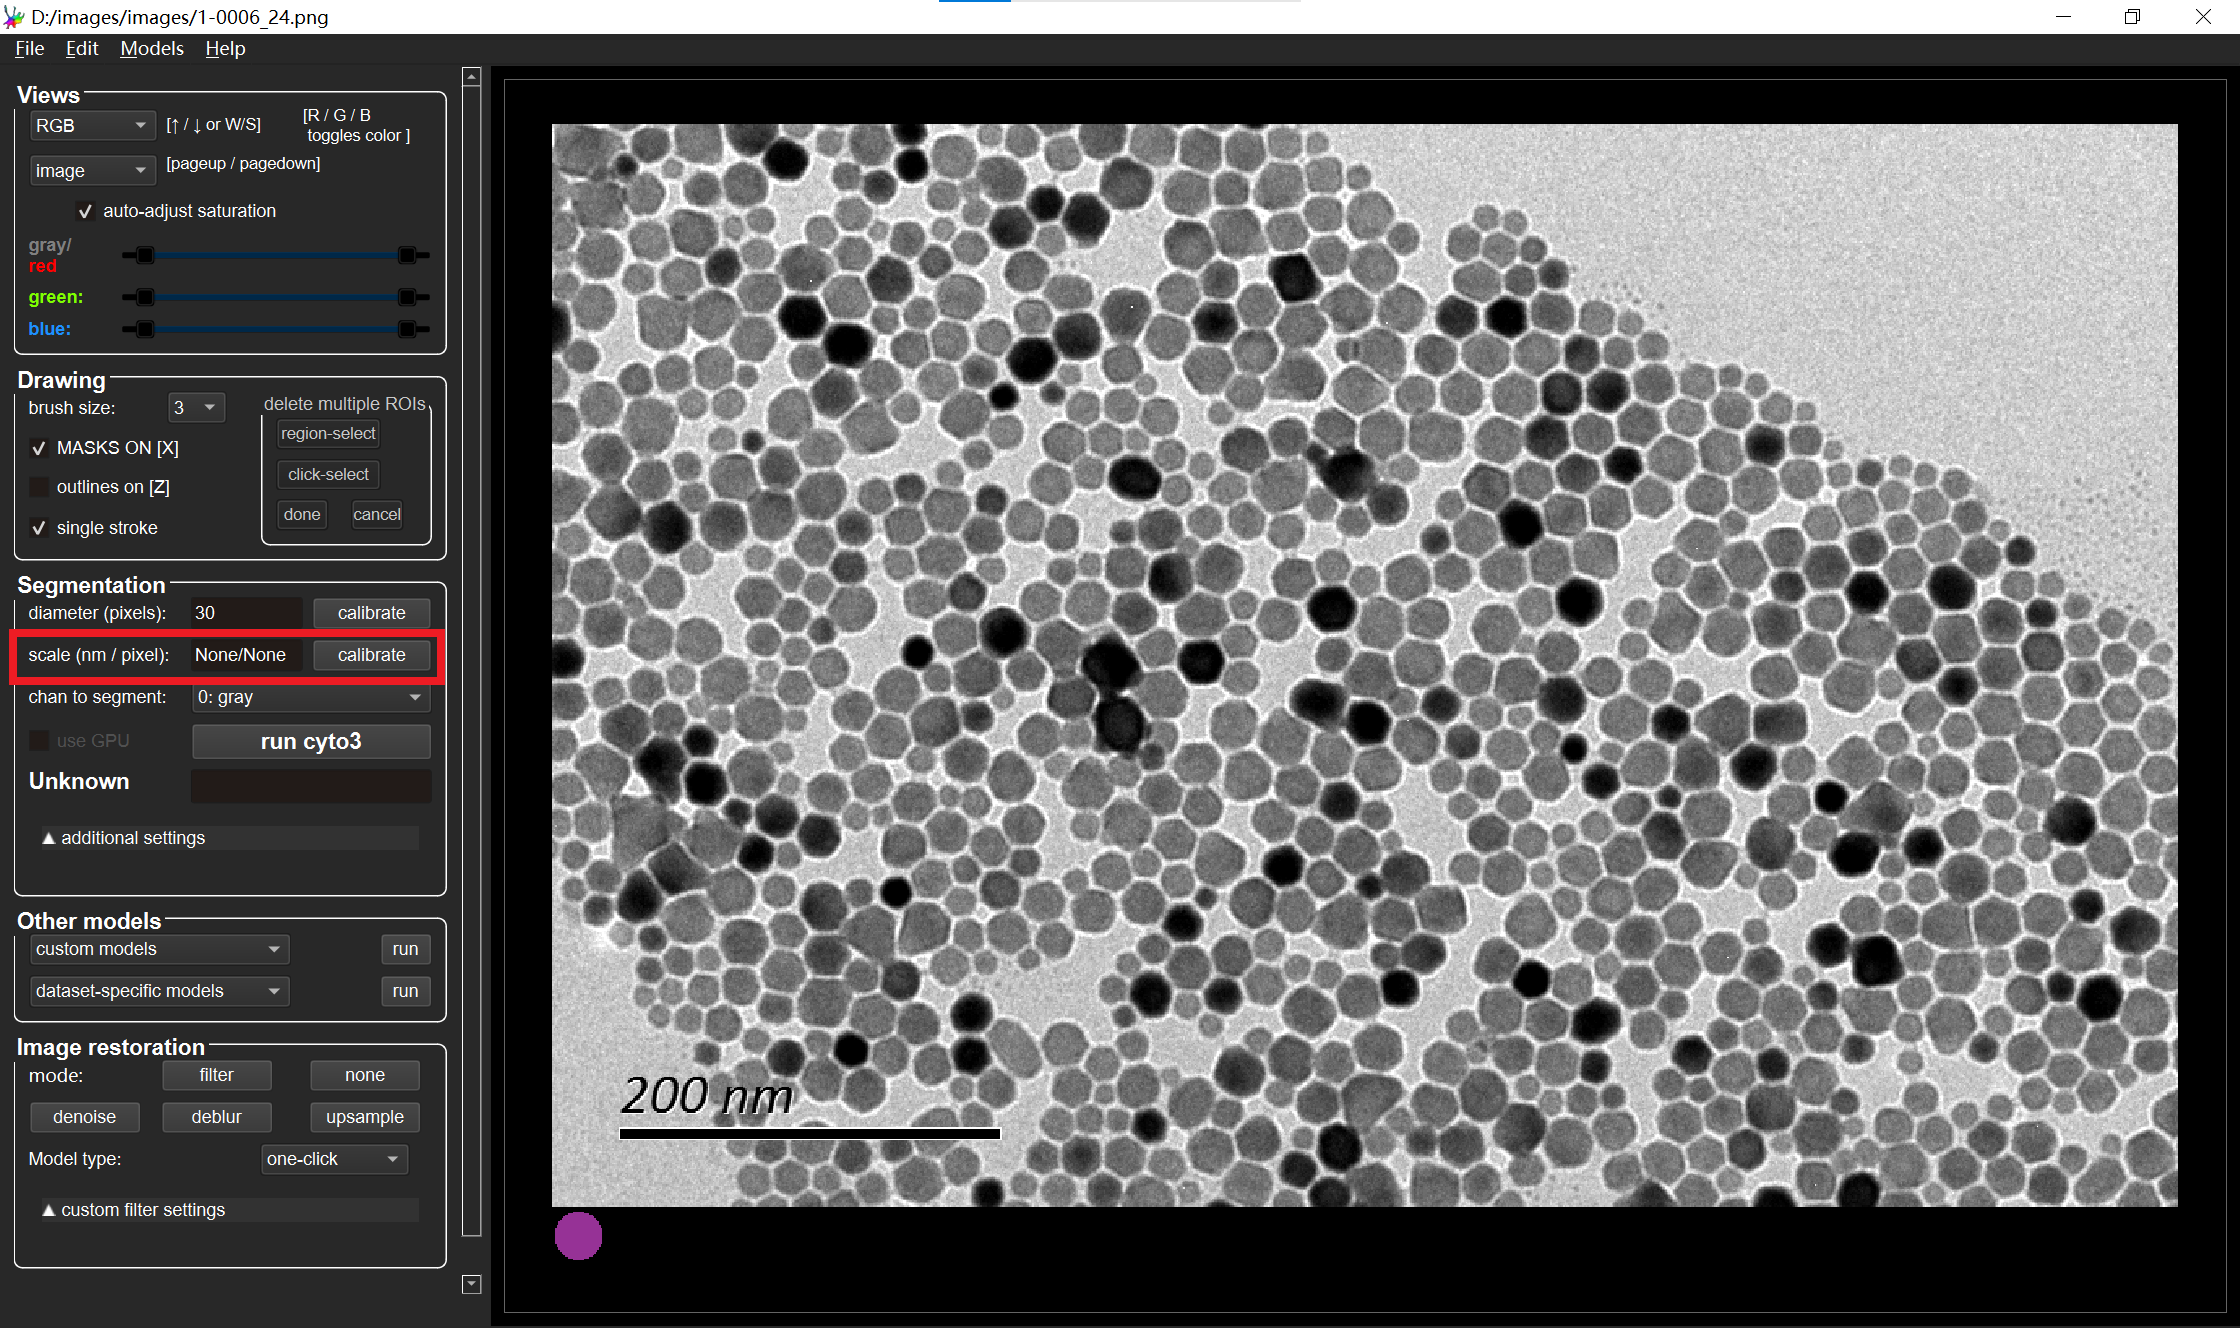
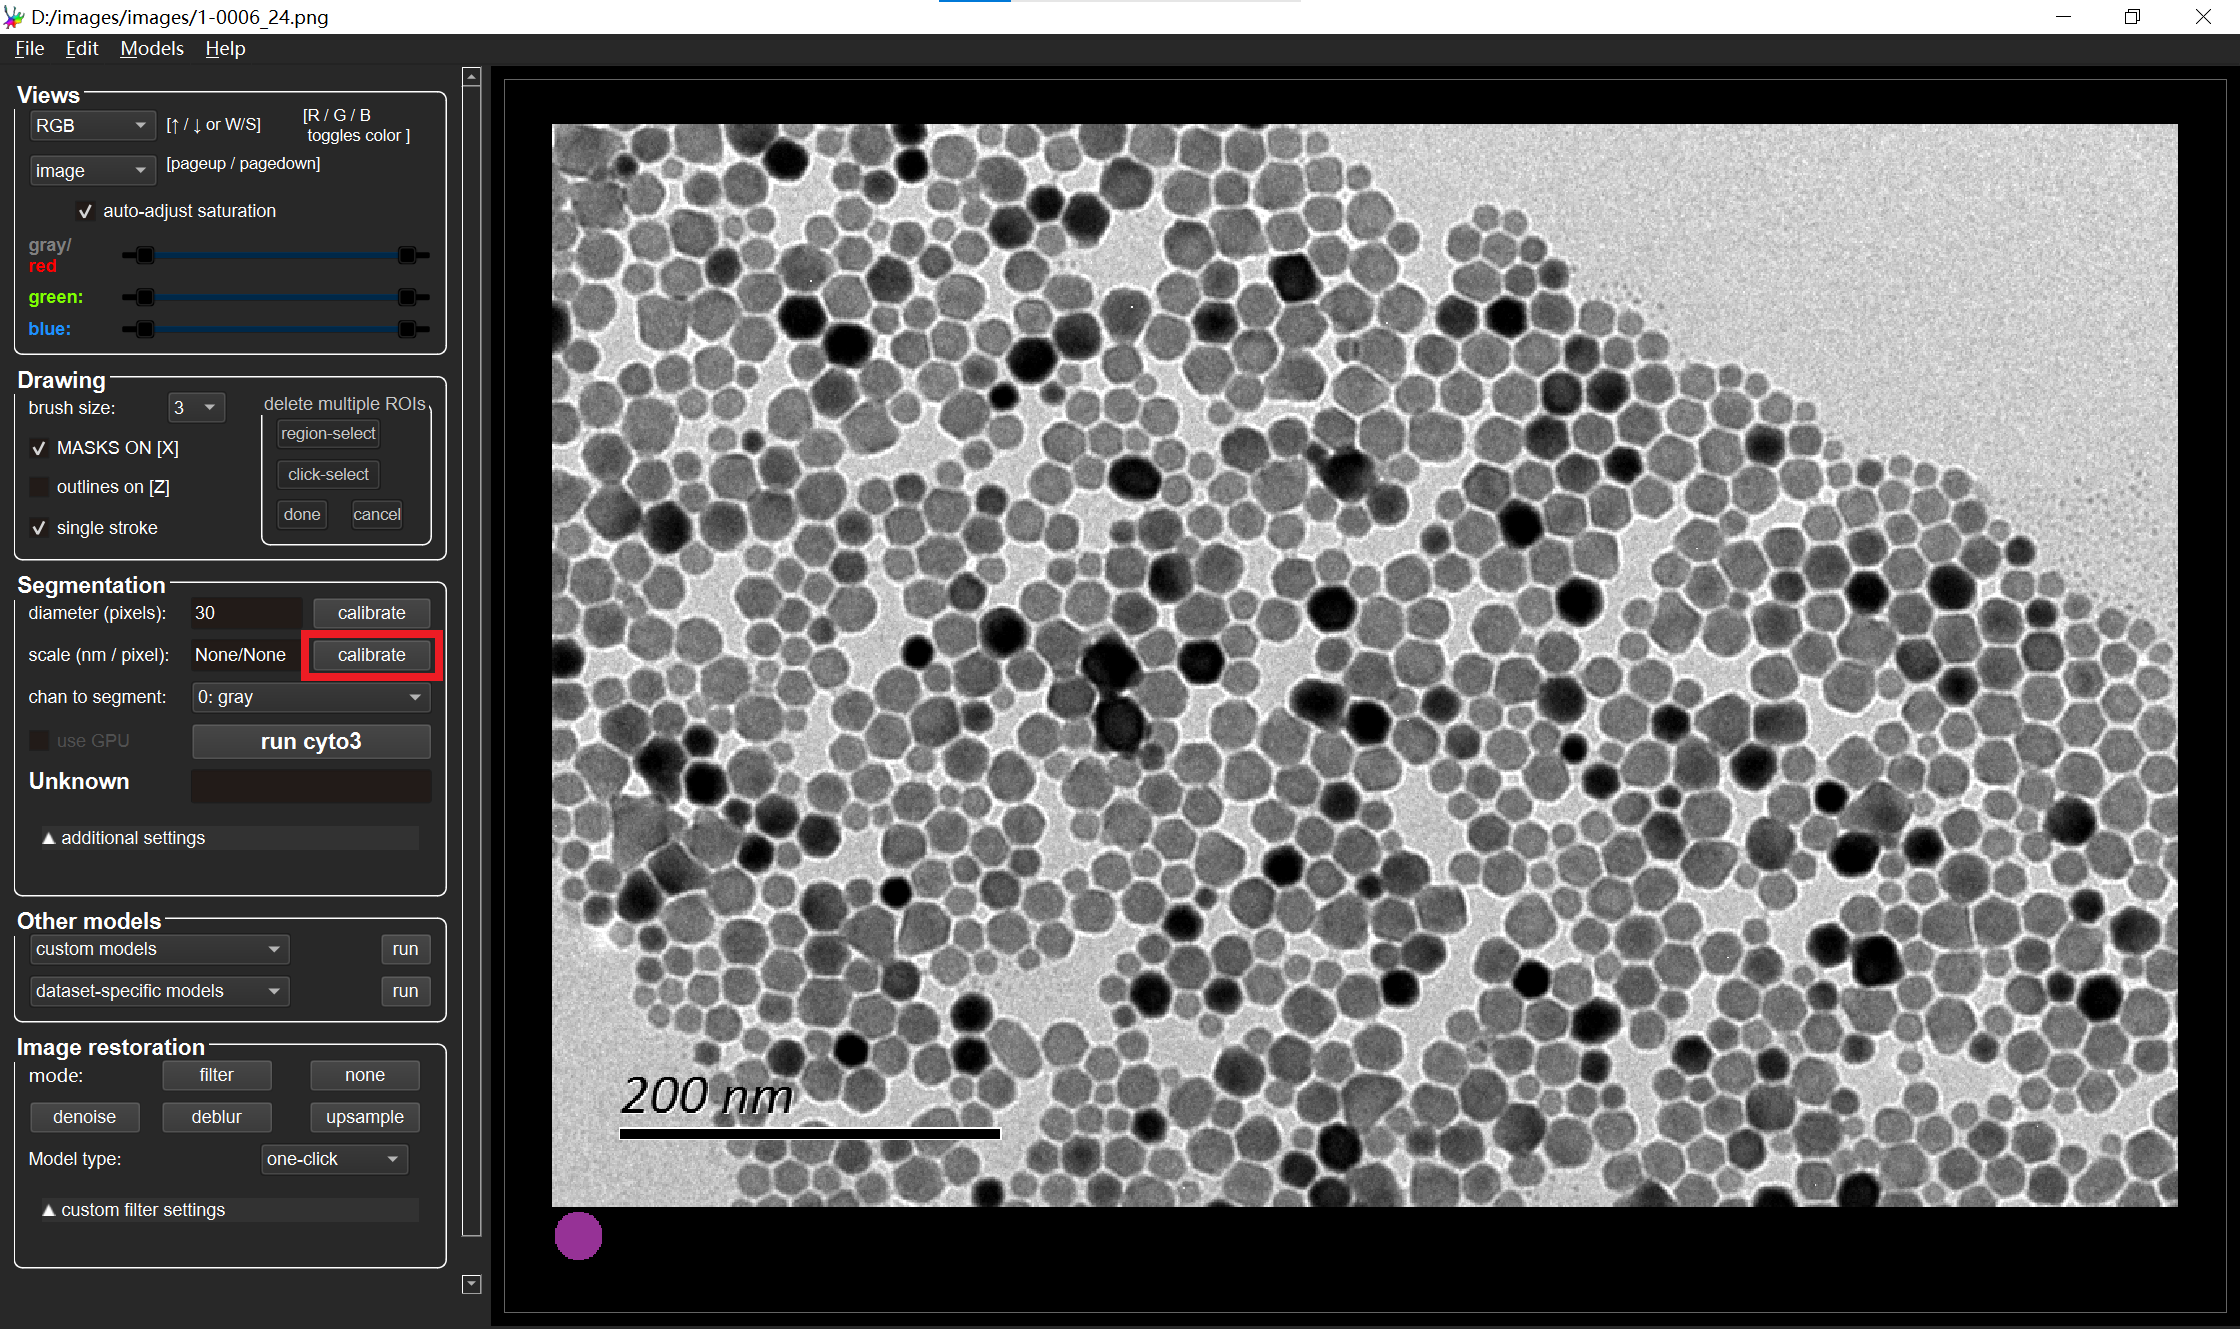
clean code

diff --git a/docs/software.md b/docs/software.md
@@ -26,9 +26,13 @@ Our modified software support automatically calibrate the scale using modern OCR
 
 ![Calibration](../assets/cailbration1.png)
 
-![Calibration](../assets/cailbration2.png)
+Or you can input manually in the text box. Press **Enter** after inputing.
 
-You can also input manually in the text box.
+![Calibration](../assets/cailbration3.png)
+
+Here is the calibration results (automatical):
+
+![Calibration](../assets/cailbration2.png)
 
 ## Run segmentation
 
